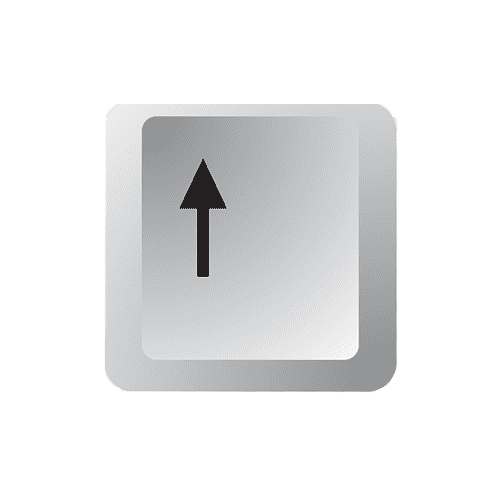
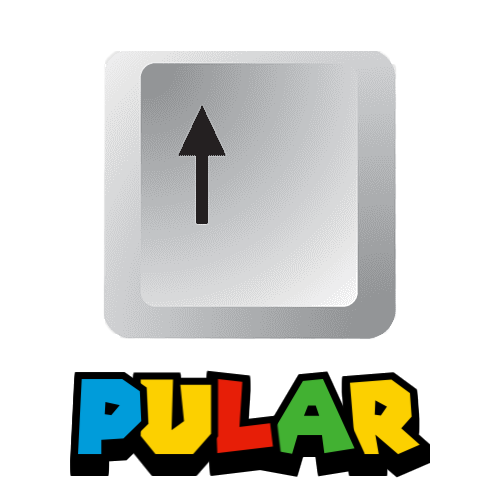
FIX BOTOES

Changed region(s): [[0.12, 0.39, 0.87, 0.96], [0.21, 0.09, 0.81, 0.57], [0.78, 0.33, 0.81, 0.36]]

diff --git a/index.html b/index.html
@@ -12,7 +12,7 @@
 
 <body>   
     <div class="game-board">
-        <div class="div_btn"><button class="btn" onclick=limpaDados()>Limpar dados</button></div>
+        <div class="div_btn"><button class="btn" onclick=limpaDados()>Reset</button></div>
         <br>
         <div class="div_press">
             <img src="./media/images/invisivel.png" class="press">
@@ -25,10 +25,7 @@
             <img src="./media/images/invisivel.png" class="pisca">
         </div>
 
-        <img src="./media/images/seta_cima.png" class="seta">
-        <div class="div_ajuda">
-            <p>Pular</p>
-        </div>
+        <img src="./media/images/invisivel.png" class="seta">
         <img src="./media/images/floor_full.png" class="floor">
         <img src="./media/images/clouds.png" class="clouds">
         <img src="./media/images/mario_correndo_new.gif" class="mario">

diff --git a/js/script.js b/js/script.js
@@ -6,6 +6,7 @@ const audio_jump = document.querySelector(".audio_jump");
 const audio_fail = document.querySelector(".audio_fail");
 const press = document.querySelector(".press");
 const press2 = document.querySelector(".press2");
+const seta = document.querySelector(".seta");
 const pisca = document.querySelector(".pisca");
 const nome_usu = document.querySelector("#nome_usu");
 const recorde = document.querySelector("#recorde");
@@ -138,6 +139,7 @@ const loop = setInterval(() => {
       recorde.textContent = "Recorde: " + localStorage.getItem("recorde");
     }
 
+    seta.src = "./media/images/seta_cima.png";
     pipe.src = "./media/images/pipe_plant.png";
     pipe.style.animation = "none";
     pipe.style.right = "";

diff --git a/css/style.css b/css/style.css
@@ -73,7 +73,7 @@
   right: 30px;
   position: absolute;
   width: 70px;
-  bottom: 280px;
+  bottom: 230px;
 }
 
 .div_logo {
@@ -152,11 +152,23 @@
 .btn {
   z-index: 100;
   display: flex;
+  left: 2px;
   position: absolute;
   text-align: center;
   width: 80px;
   height: 20px;
   font-size: 10px;
+  font-weight: bold;
+  
+  justify-content: center;
+  padding: 4px 20px;
+  background-color: #3498db;
+  color: #fff;
+  text-decoration: none;
+  border: 1px solid #2980b9;
+  border-radius: 5px;
+  box-shadow: 0 3px 0 #2980b9;
+  transition: transform 0.2s, box-shadow 0.2s;
 }
 
 .container {
